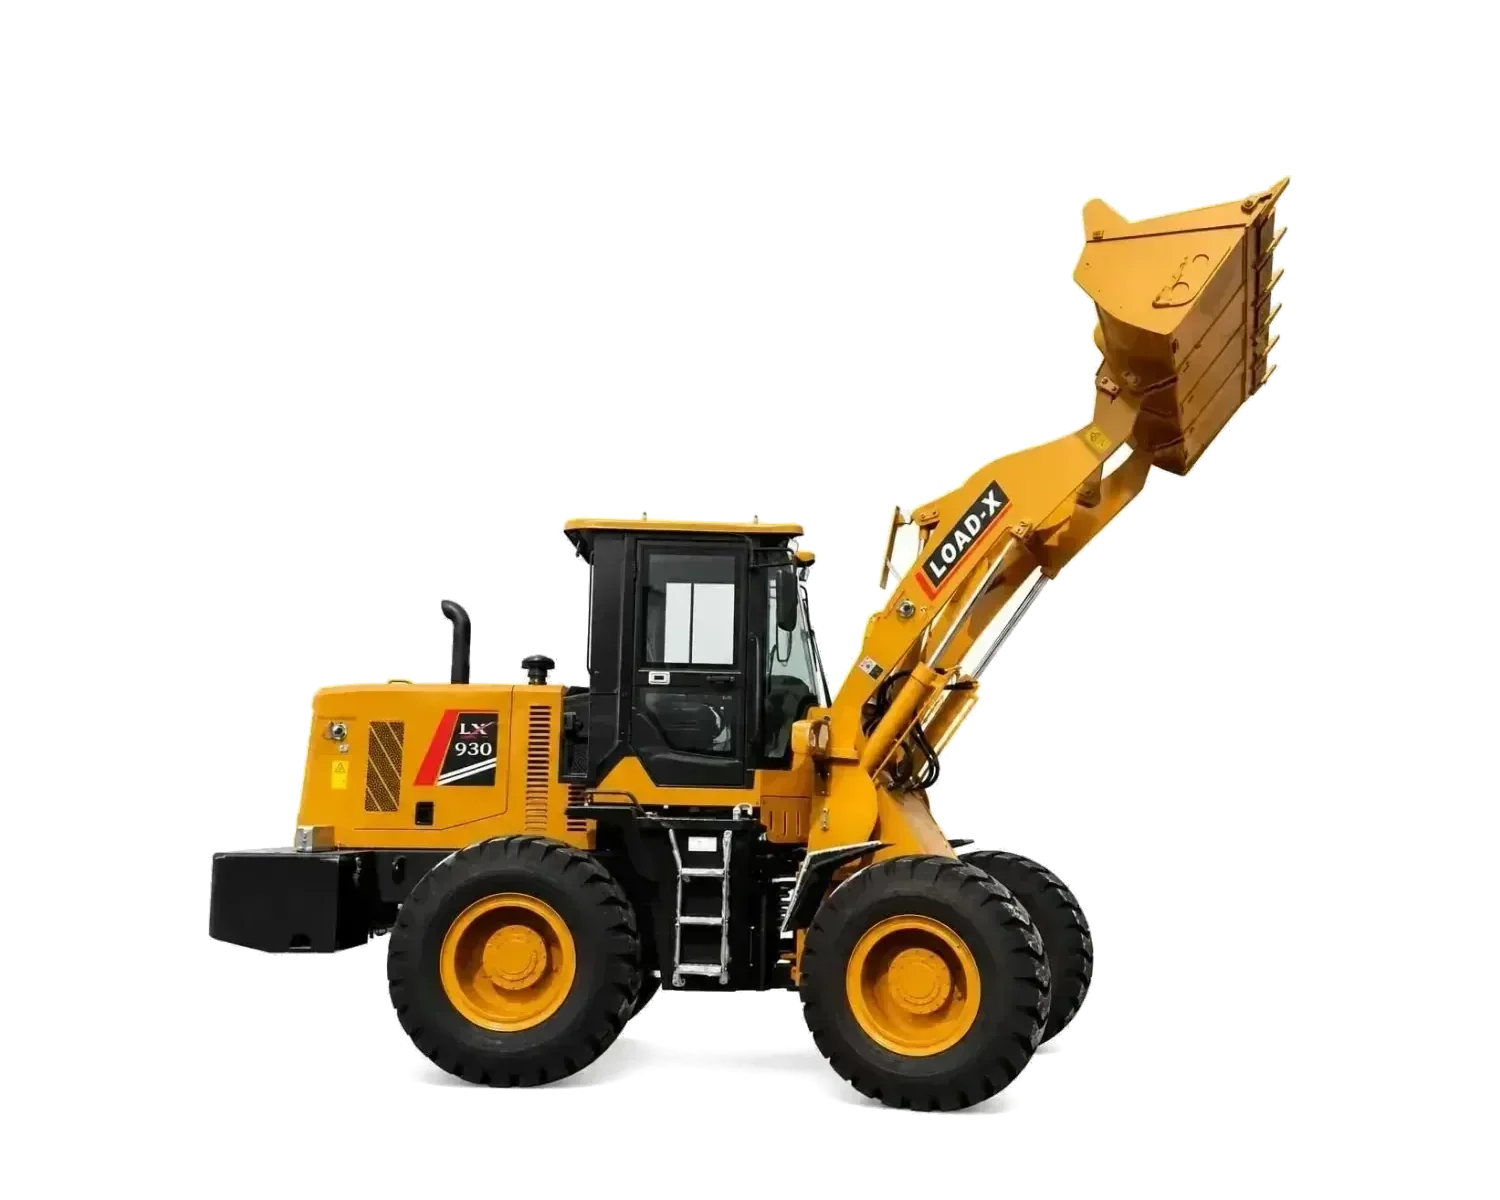
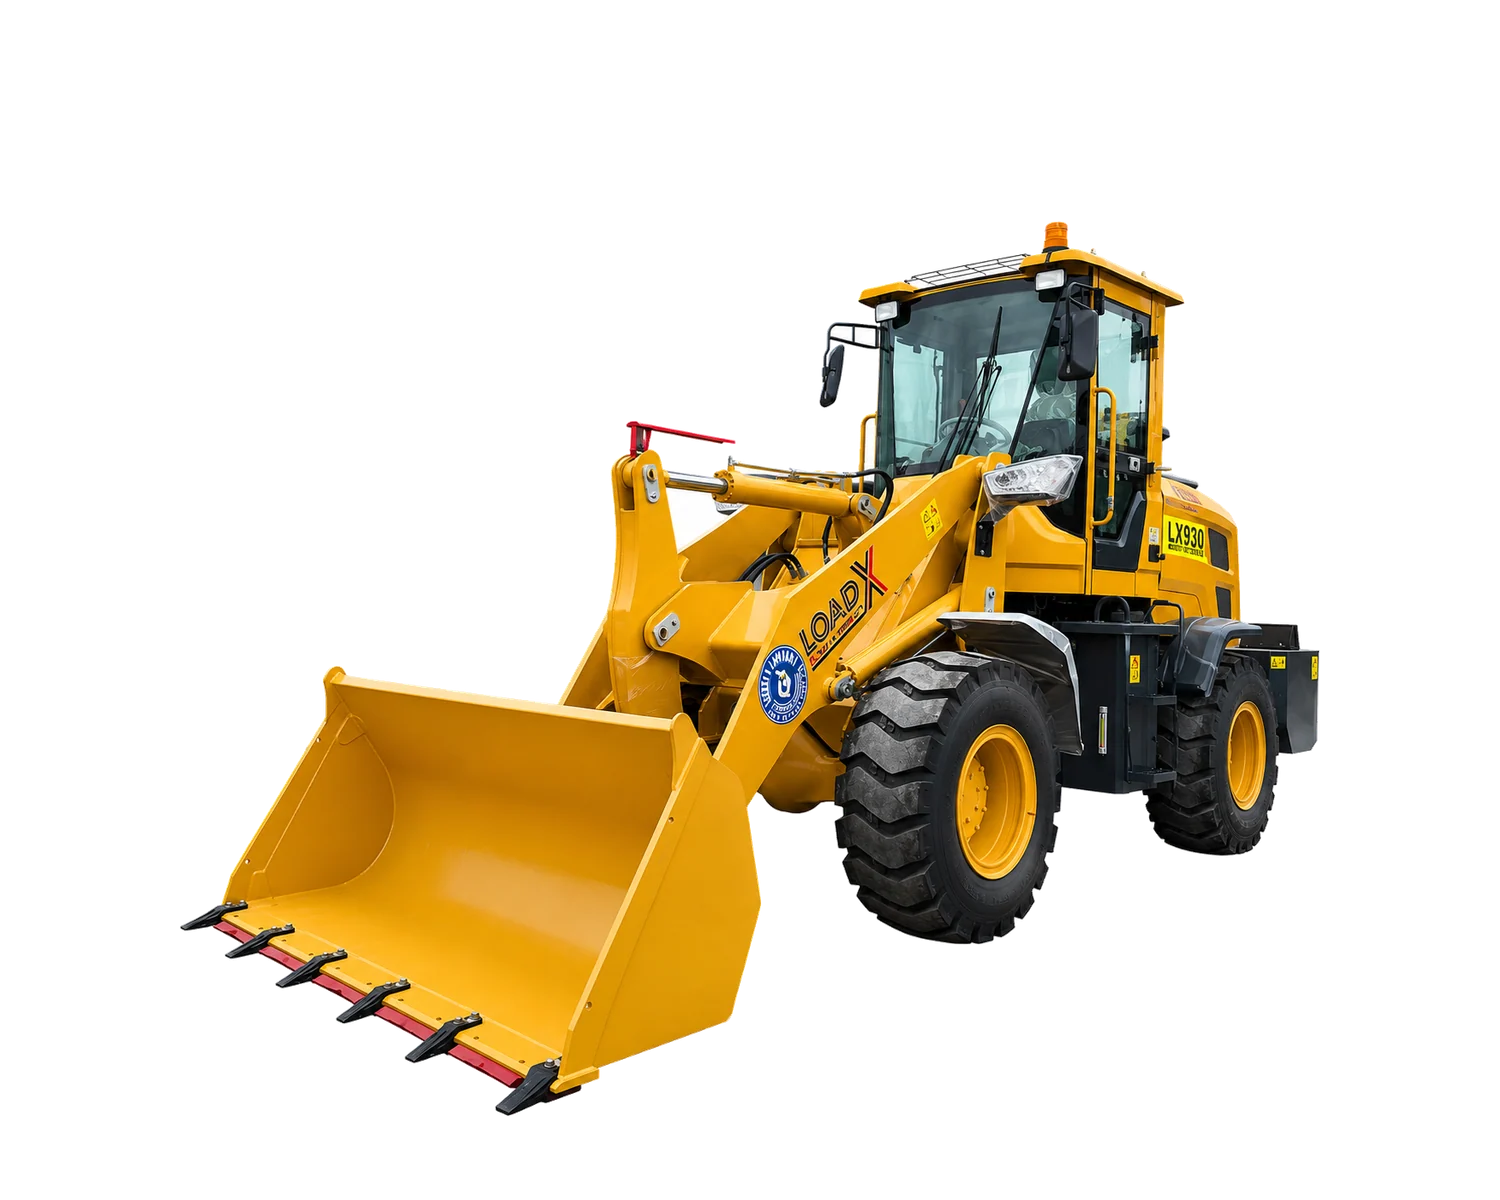
Build the services page; new category and LX-930 artwork; drop the em dashes
SERVICES
Was a "coming next" stub. Now the four services the client wrote, on one page,
each with its own quote button as instructed — which is the right call for a
reason worth recording: the visitor decides to talk to somebody at the point
they read the thing they need, not at the bottom of the page.

One page rather than an index and four detail pages: each service is a
paragraph and three lines, so four pages would carry a screen of copy apiece
and an index whose only job is to link to them. Every service keeps its slug,
so any that later earns a page of its own can be split out.

Numbered rows rather than a grid. Four cards read as four alternatives to
choose between; these are not alternatives, they are the sequence of one
relationship — spec the machine, supply the parts, service it, stay on the end
of the phone. Rows in order say that.

ARTWORK
- Excavators and wheel loaders category tiles replaced with the supplied
  photographs.
- LX-930 cutout replaced; bucket down, so all three LOAD-X machines are now
  photographed in the same pose.
- LX-930 marked featured, so the homepage brand showcase carries all three
  rather than two.

New filenames throughout (.webp), not rewrites in place — Next keys its
optimised-image cache on the source URL.

EM DASHES
Gone from the About page copy, replaced with commas or removed where the
sentence reads better without. The closing tagline is now "One standard,
[…]

diff --git a/src/app/services/page.tsx b/src/app/services/page.tsx
@@ -1,7 +1,161 @@
-import { ComingNext } from "@/components/layout/ComingNext";
+import type { Metadata } from "next";
+import { Footer } from "@/components/layout/Footer";
+import { Header } from "@/components/layout/Header";
+import { ArrowRight, Button } from "@/components/ui/Button";
+import { CheckIcon } from "@/components/ui/Icons";
+import { Reveal } from "@/components/ui/Reveal";
+import { Container, Section, SectionHeader } from "@/components/ui/Section";
+import { getServices } from "@/lib/data";
+import { routes } from "@/lib/routes";
 
-export const metadata = { title: "Services" };
+/**
+ * SERVICES — one page, every service on it.
+ *
+ * NOT A CATEGORY INDEX. Four services, each of which is a paragraph and three
+ * lines, would make four detail pages carrying about a screen of copy each and
+ * an index whose only job is to link to them. On a single page a visitor
+ * reading "what do you actually do after I buy the machine" gets the whole
+ * answer by scrolling, which is the question this page exists to answer. If the
+ * client later writes a page's worth of copy per service, each one already has
+ * a slug to be split out on.
+ *
+ * EVERY SERVICE CARRIES ITS OWN QUOTE BUTTON, on the client's instruction, and
+ * it is the right call for a reason worth writing down: the visitor decides
+ * they want to talk to somebody at the point they read the thing they need, not
+ * at the bottom of the page. Each button deep-links the same quote form.
+ *
+ * The copy is the client's own, from `scripts/seed-data/site.ts`. Nothing here
+ * describes a capability they have not claimed.
+ */
 
-export default function Page() {
-  return <ComingNext title="Services" description="Consultation, parts support, maintenance and after-sales support." />;
+export const metadata: Metadata = {
+  title: "Services",
+  description:
+    "Equipment consultation, parts support, maintenance and repair, and after-sales support from Burki & Company.",
+};
+
+export default async function ServicesPage() {
+  const services = await getServices();
+
+  return (
+    <>
+      <Header />
+      <main>
+        <Section tone="light" spacing="tight">
+          <Container>
+            <SectionHeader
+              eyebrow="Services"
+              title="What we do after the sale"
+              description="Buying the machine is the short part. Specifying it correctly, keeping the parts on a shelf and getting an engineer to it when it stops are what decide whether it earns."
+              action={
+                <Button href={routes.quote()} size="sm">
+                  Request a quote
+                  <ArrowRight />
+                </Button>
+              }
+            />
+          </Container>
+        </Section>
+
+        {/* ------------------------------------------------------- the services
+         *
+         * Numbered rows rather than a grid of cards. Four cards on a desktop
+         * read as four equivalent options to choose between; these are not
+         * alternatives, they are the sequence of a single relationship — spec
+         * the machine, supply the parts, service it, stay on the end of the
+         * phone. Rows in order say that; a grid does not.
+         */}
+        <Section tone="light" spacing="tight">
+          <Container>
+            <ul className="border-t border-steel-200">
+              {services.map((service, index) => (
+                <li key={service.id}>
+                  <Reveal delay={Math.min(index, 4) * 0.05}>
+                    <article className="grid gap-6 border-b border-steel-200 py-10 md:grid-cols-[auto_minmax(0,1fr)_auto] md:gap-10 md:py-12 lg:gap-14">
+                      {/* Outlined, not filled: the numeral is structure, not
+                          something to read before the heading. */}
+                      <span
+                        aria-hidden="true"
+                        className="font-display text-[2.25rem] font-bold leading-none tabular-nums text-transparent [-webkit-text-stroke:1px_var(--color-steel-300,#cbd4e1)] md:text-[3rem]"
+                      >
+                        {String(index + 1).padStart(2, "0")}
+                      </span>
+
+                      <div className="min-w-0">
+                        <h2 className="text-xl font-bold uppercase leading-tight tracking-tight text-navy-800 md:text-2xl">
+                          {service.name}
+                        </h2>
+
+                        <p className="mt-3 max-w-2xl text-[0.9375rem] leading-relaxed text-steel-600 md:text-base">
+                          {service.description}
+                        </p>
+
+                        {service.points.length > 0 ? (
+                          <ul className="mt-5 space-y-2.5">
+                            {service.points.map((point) => (
+                              <li key={point} className="flex gap-3">
+                                <CheckIcon
+                                  aria-hidden="true"
+                                  className="mt-[0.2em] shrink-0 text-[0.9em] text-amber-500"
+                                />
+                                <span className="text-[0.875rem] leading-relaxed text-steel-700">
+                                  {point}
+                                </span>
+                              </li>
+                            ))}
+                          </ul>
+                        ) : null}
+                      </div>
+
+                      {/* Full width on a phone, where a button beside the copy
+                          would be a third of a column wide. */}
+                      <div className="md:self-start md:pt-1">
+                        <Button
+                          href={routes.quote()}
+                          size="sm"
+                          variant="outline"
+                          className="w-full md:w-auto"
+                        >
+                          Request a quote
+                          <ArrowRight />
+                        </Button>
+                      </div>
+                    </article>
+                  </Reveal>
+                </li>
+              ))}
+            </ul>
+          </Container>
+        </Section>
+
+        {/* ------------------------------------------------------------- close */}
+        <Section tone="navy" spacing="default">
+          <Container size="narrow">
+            <Reveal>
+              <div className="flex flex-col items-center gap-6 text-center">
+                <h2 className="text-display-sm uppercase text-white">
+                  Tell us what the machine has to do
+                </h2>
+                <p className="max-w-xl text-[0.9375rem] leading-relaxed text-white/65">
+                  The job, the material and the site are enough to start with. We
+                  will come back with what fits, and what it will take to keep it
+                  running.
+                </p>
+                <div className="flex flex-wrap justify-center gap-3">
+                  <Button href={routes.quote()} size="lg">
+                    Request a quote
+                    <ArrowRight />
+                  </Button>
+                  <Button href="/contact" size="lg" variant="outlineLight">
+                    Talk to us
+                  </Button>
+                </div>
+              </div>
+            </Reveal>
+          </Container>
+        </Section>
+      </main>
+      <Footer />
+    </>
+  );
 }

diff --git a/src/app/about/page.tsx b/src/app/about/page.tsx
@@ -35,7 +35,7 @@ import { routes } from "@/lib/routes";
 export const metadata: Metadata = {
   title: "About Us",
   description:
-    "Burki & Company — five decades supplying heavy machinery from Karachi and Islamabad, and sole distributor of Xinyuan wheeled excavators and LOAD-X wheel loaders in Pakistan.",
+    "Burki & Company, five decades supplying heavy machinery from Karachi and Islamabad, and sole distributor of Xinyuan wheeled excavators and LOAD-X wheel loaders in Pakistan.",
 };
 
 /** The machine types named in the client's "What We Offer" copy. */
@@ -197,7 +197,7 @@ export default async function AboutPage() {
                   Founded by {info.founder.name ?? "our founder"}, the company
                   grew through one principle: deliver what you promise. That
                   commitment earned the trust of clients across Pakistan,
-                  Afghanistan and Iran — and it remains the cornerstone of
+                  Afghanistan and Iran, and it remains the cornerstone of
                   everything we do today.
                 </p>
               </Reveal>
@@ -239,7 +239,7 @@ export default async function AboutPage() {
                     machinery to some of Pakistan&apos;s most prominent names
                     across construction, contracting, textiles, refineries,
                     mining, oil storage, rice mills, dairy and farming,
-                    agriculture, and the energy and power sectors — as well as
+                    agriculture, and the energy and power sectors, as well as
                     government institutions, including municipal bodies and
                     various federal and provincial departments.
                   </p>
@@ -273,9 +273,9 @@ export default async function AboutPage() {
               <Reveal delay={0.12}>
                 <p className="text-base leading-relaxed text-steel-700">
                   Burki &amp; Company provides a comprehensive range of heavy
-                  machinery — including dumpers, wheel loaders, bulldozers,
+                  machinery including dumpers, wheel loaders, bulldozers,
                   rollers, cranes, graders, dumper trucks, mixer trucks and
-                  excavators — purpose-built for construction, infrastructure
+                  excavators, purpose-built for construction, infrastructure
                   and earthmoving operations.
                 </p>
               </Reveal>
@@ -322,7 +322,7 @@ export default async function AboutPage() {
         >
           <p>
             Burki &amp; Company is the authorised sole distributor of Xinyuan
-            wheeled excavators and LOAD-X wheel loaders across Pakistan —
+            wheeled excavators and LOAD-X wheel loaders across Pakistan,
             bringing proven Chinese engineering to Pakistan&apos;s construction
             industry.
           </p>
@@ -362,7 +362,7 @@ export default async function AboutPage() {
               <div className="mt-12 flex flex-col items-center gap-5 border-t border-white/12 pt-10 text-center">
                 <p className="max-w-xl text-[0.9375rem] leading-relaxed text-white/65">
                   Tell us the job, the material and the site, and we will come
-                  back with what fits — including machines beyond the catalogue.
+                  back with what fits, including machines beyond the catalogue.
                 </p>
                 <div className="flex flex-wrap justify-center gap-3">
                   <Button href={routes.quote()}>

diff --git a/src/lib/content/content.ts b/src/lib/content/content.ts
@@ -137,8 +137,8 @@ export const content: ContentSnapshot = {
       "name": "Excavators",
       "description": "Tracked and wheeled excavators for bulk earthmoving, trenching, foundation work and demolition, from compact site machines to quarry-duty units.",
       "image": {
-        "src": "/images/cat-excavators.jpg",
-        "alt": "Tracked excavator working an open cut at sunrise"
+        "src": "/images/cat-excavators.webp",
+        "alt": "Xinyuan wheeled excavator on a city street, boom lowered"
       },
       "order": 1
     },
@@ -149,8 +149,8 @@ export const content: ContentSnapshot = {
       "shortName": "Loaders",
       "description": "Front-end loaders for stockpile handling, truck loading and site logistics — the workhorse of aggregate yards, batching plants and road projects.",
       "image": {
-        "src": "/images/cat-wheel-loaders.jpg",
-        "alt": "Wheel loader moving material on a working site"
+        "src": "/images/cat-wheel-loaders.webp",
+        "alt": "Wheel loader with its bucket lowered on a yard"
       },
       "order": 2
     },
@@ -802,7 +802,7 @@ export const content: ContentSnapshot = {
         "lx-926",
         "lx-936"
       ],
-      "isFeatured": false,
+      "isFeatured": true,
       "isPlaceholder": true,
       "order": 3,
       "brandSlug": "load-x",
@@ -6673,10 +6673,10 @@ export const content: ContentSnapshot = {
       }
     },
     "story": [
-      "Burki & Company was established in the late 1970s in Karachi, Pakistan — built on a foundation of integrity, quality, and an unwavering commitment to the construction and heavy machinery industry.",
+      "Burki & Company was established in the late 1970s in Karachi, Pakistan, built on a foundation of integrity, quality, and an unwavering commitment to the construction and heavy machinery industry.",
       "What began as a specialised dealership has evolved over five decades into one of Pakistan's most trusted names in heavy equipment, serving contractors, construction companies and infrastructure developers across Pakistan and beyond."
     ],
-    "mission": "Five decades. Thousands of machines. One standard — excellence.",
+    "mission": "Five decades. Thousands of machines. One standard, excellence.",
     "milestones": [],
     "certifications": [],
     "regionsServed": [],

diff --git a/scripts/seed-data/equipment-categories.ts b/scripts/seed-data/equipment-categories.ts
@@ -12,7 +12,7 @@ export const equipmentCategories: EquipmentCategory[] = [
     name: "Excavators",
     description:
       "Tracked and wheeled excavators for bulk earthmoving, trenching, foundation work and demolition, from compact site machines to quarry-duty units.",
-    image: { src: "/images/cat-excavators.jpg", alt: "Tracked excavator working an open cut at sunrise" },
+    image: { src: "/images/cat-excavators.webp", alt: "Xinyuan wheeled excavator on a city street, boom lowered" },
     order: 1,
   },
   {
@@ -22,7 +22,7 @@ export const equipmentCategories: EquipmentCategory[] = [
     shortName: "Loaders",
     description:
       "Front-end loaders for stockpile handling, truck loading and site logistics — the workhorse of aggregate yards, batching plants and road projects.",
-    image: { src: "/images/cat-wheel-loaders.jpg", alt: "Wheel loader moving material on a working site" },
+    image: { src: "/images/cat-wheel-loaders.webp", alt: "Wheel loader with its bucket lowered on a yard" },
     order: 2,
   },
   {

diff --git a/scripts/build-content.ts b/scripts/build-content.ts
@@ -127,10 +127,10 @@ const companyInfo: CompanyInfo = {
   },
   /* The About page's opening section, supplied by the client. */
   story: [
-    "Burki & Company was established in the late 1970s in Karachi, Pakistan — built on a foundation of integrity, quality, and an unwavering commitment to the construction and heavy machinery industry.",
+    "Burki & Company was established in the late 1970s in Karachi, Pakistan, built on a foundation of integrity, quality, and an unwavering commitment to the construction and heavy machinery industry.",
     "What began as a specialised dealership has evolved over five decades into one of Pakistan's most trusted names in heavy equipment, serving contractors, construction companies and infrastructure developers across Pakistan and beyond.",
   ],
-  mission: "Five decades. Thousands of machines. One standard — excellence.",
+  mission: "Five decades. Thousands of machines. One standard, excellence.",
   milestones: [],
   certifications: [],
   regionsServed: [],

diff --git a/scripts/seed-data/equipment.ts b/scripts/seed-data/equipment.ts
@@ -225,7 +225,7 @@ export const equipment: Equipment[] = [
       },
     ],
     relatedEquipmentSlugs: ["lx-926", "lx-936"],
-    isFeatured: false,
+    isFeatured: true,
     isPlaceholder: true,
     order: 3,
   },
